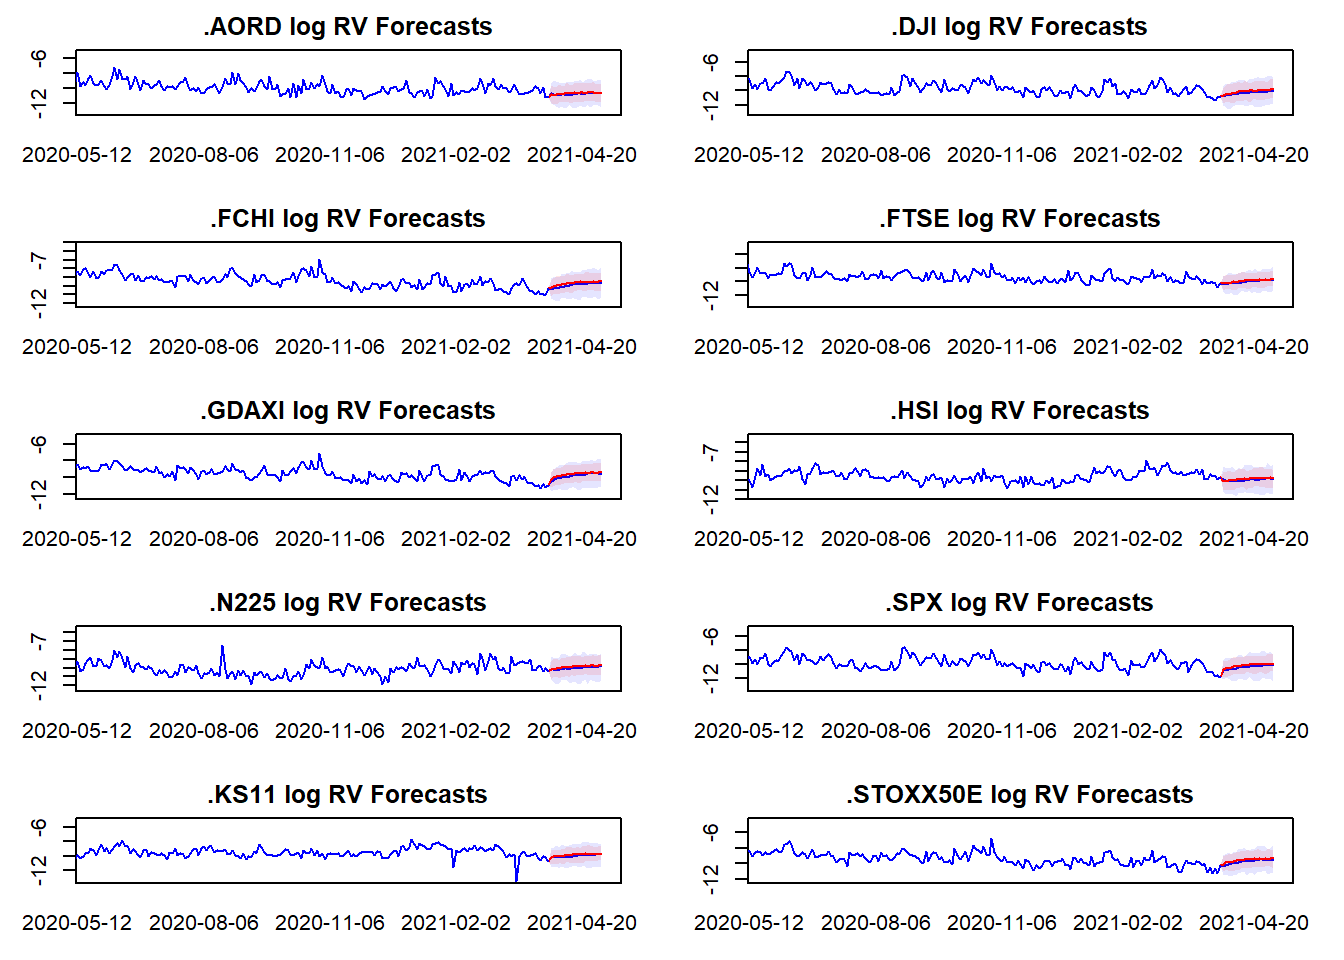
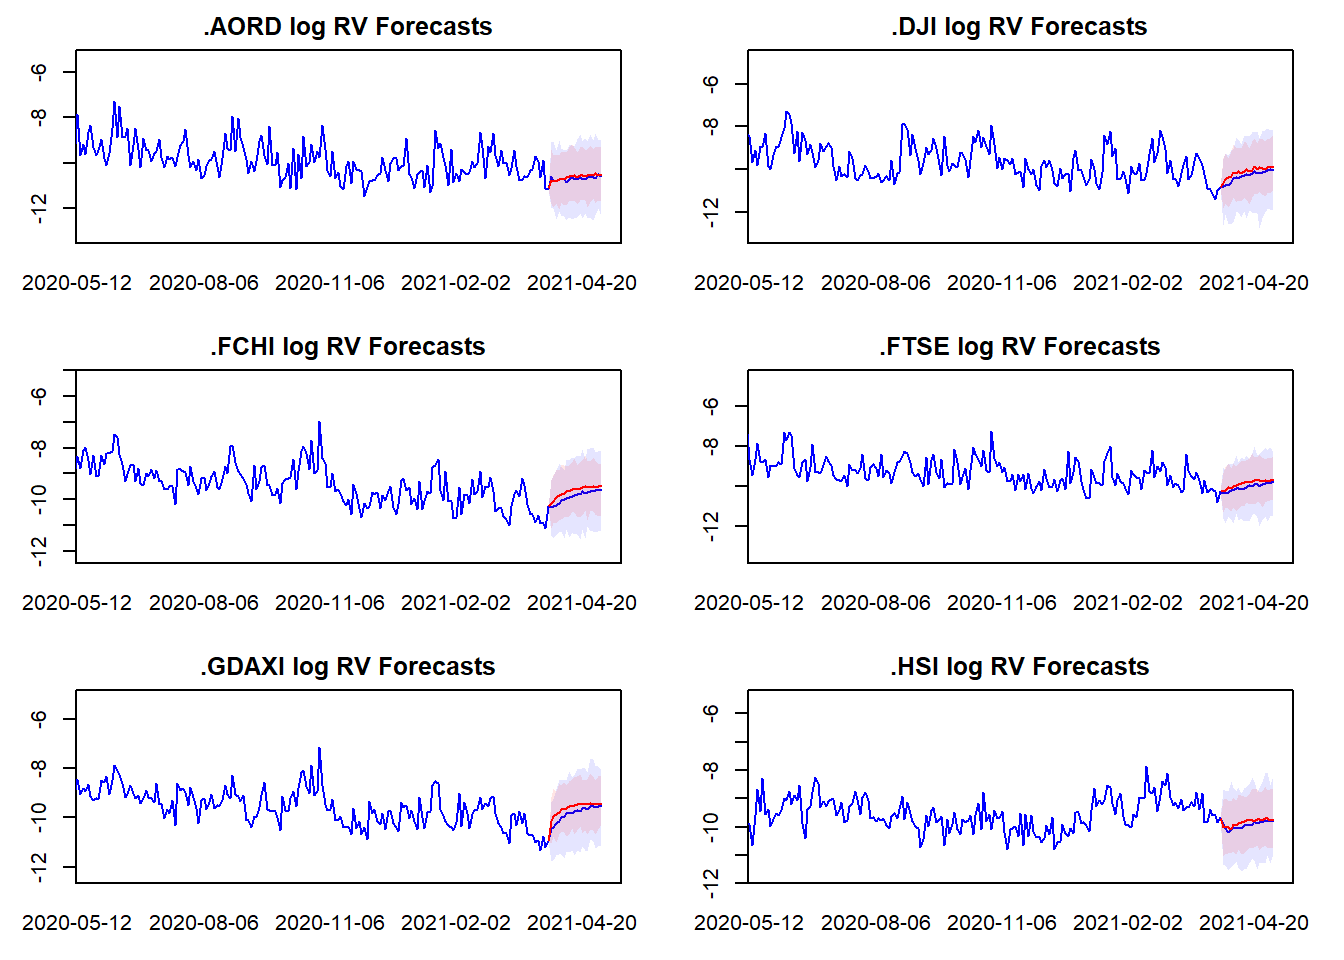
docs - resizing forecast charts, rounding outputs

diff --git a/docs/index.html b/docs/index.html
@@ -565,16 +565,16 @@ p(\Sigma|Y,X) &amp;= IW_N(\bar{S},\bar{\nu}) \\
 <span id="cb2-27"><a href="#cb2-27" aria-hidden="true" tabindex="-1"></a></span>
 <span id="cb2-28"><a href="#cb2-28" aria-hidden="true" tabindex="-1"></a><span class="fu">round</span>(<span class="fu">apply</span>(res[[<span class="dv">1</span>]],<span class="dv">1</span><span class="sc">:</span><span class="dv">2</span>,mean),<span class="dv">2</span>) <span class="co">#A posterior mean</span></span></code><button title="Copy to Clipboard" class="code-copy-button"><i class="bi"></i></button></pre></div>
 <div class="cell-output cell-output-stdout">
-<pre><code>      [,1]  [,2]
-[1,]  0.03 -0.11
-[2,]  1.00  0.01
-[3,] -0.01  0.99</code></pre>
+<pre><code>     [,1] [,2]
+[1,] 0.17 0.12
+[2,] 0.99 0.01
+[3,] 0.00 0.99</code></pre>
 </div>
 <div class="sourceCode cell-code" id="cb4"><pre class="sourceCode r code-with-copy"><code class="sourceCode r"><span id="cb4-1"><a href="#cb4-1" aria-hidden="true" tabindex="-1"></a><span class="fu">round</span>(<span class="fu">apply</span>(res[[<span class="dv">2</span>]],<span class="dv">1</span><span class="sc">:</span><span class="dv">2</span>,mean),<span class="dv">2</span>) <span class="co">#Sigma posterior mean</span></span></code><button title="Copy to Clipboard" class="code-copy-button"><i class="bi"></i></button></pre></div>
 <div class="cell-output cell-output-stdout">
-<pre><code>      [,1]  [,2]
-[1,]  1.04 -0.02
-[2,] -0.02  0.96</code></pre>
+<pre><code>     [,1] [,2]
+[1,] 0.98 0.03
+[2,] 0.03 1.06</code></pre>
 </div>
 </div>
 <p>As shown above the estimated parameter means closely match the expected values for the data generating process.</p>
@@ -692,20 +692,20 @@ p(\lambda|Y,X,A,\Sigma) &amp;\propto L(A,\Sigma,\lambda|Y,X)p(\lambda) \\
 <span id="cb6-36"><a href="#cb6-36" aria-hidden="true" tabindex="-1"></a></span>
 <span id="cb6-37"><a href="#cb6-37" aria-hidden="true" tabindex="-1"></a><span class="fu">round</span>(<span class="fu">apply</span>(A.posterior.draws, <span class="dv">1</span><span class="sc">:</span><span class="dv">2</span>, mean),<span class="dv">2</span>)</span></code><button title="Copy to Clipboard" class="code-copy-button"><i class="bi"></i></button></pre></div>
 <div class="cell-output cell-output-stdout">
-<pre><code>      [,1]  [,2]
-[1,]  0.03 -0.11
-[2,]  1.00  0.01
-[3,] -0.01  0.99</code></pre>
+<pre><code>     [,1] [,2]
+[1,] 0.17 0.11
+[2,] 0.99 0.01
+[3,] 0.00 0.99</code></pre>
 </div>
 <div class="sourceCode cell-code" id="cb8"><pre class="sourceCode r code-with-copy"><code class="sourceCode r"><span id="cb8-1"><a href="#cb8-1" aria-hidden="true" tabindex="-1"></a><span class="fu">round</span>(<span class="fu">apply</span>(Sigma.posterior.draws, <span class="dv">1</span><span class="sc">:</span><span class="dv">2</span>, mean),<span class="dv">2</span>)</span></code><button title="Copy to Clipboard" class="code-copy-button"><i class="bi"></i></button></pre></div>
 <div class="cell-output cell-output-stdout">
-<pre><code>      [,1]  [,2]
-[1,]  1.04 -0.02
-[2,] -0.02  0.96</code></pre>
+<pre><code>     [,1] [,2]
+[1,] 0.97 0.03
+[2,] 0.03 1.05</code></pre>
 </div>
 <div class="sourceCode cell-code" id="cb10"><pre class="sourceCode r code-with-copy"><code class="sourceCode r"><span id="cb10-1"><a href="#cb10-1" aria-hidden="true" tabindex="-1"></a><span class="fu">round</span>(<span class="fu">mean</span>(lambda.posterior.draws),<span class="dv">2</span>)</span></code><button title="Copy to Clipboard" class="code-copy-button"><i class="bi"></i></button></pre></div>
 <div class="cell-output cell-output-stdout">
-<pre><code>[1] 1.01</code></pre>
+<pre><code>[1] 1.02</code></pre>
 </div>
 </div>
 <p>As can be seen, when the extended model estimation routine is applied to the simulated bivariate random walk data, the estimates of <span class="math inline">\(A\)</span> and <span class="math inline">\(\Sigma\)</span> again match the true parameter values closely.</p>
@@ -735,74 +735,25 @@ p(\lambda|Y,X,A,\Sigma) &amp;\propto L(A,\Sigma,\lambda|Y,X)p(\lambda) \\
 <span id="cb12-12"><a href="#cb12-12" aria-hidden="true" tabindex="-1"></a></span>
 <span id="cb12-13"><a href="#cb12-13" aria-hidden="true" tabindex="-1"></a>res <span class="ot">=</span> <span class="fu">get_posteriors</span>(<span class="dv">300</span>, Y_ext, X_ext, pris)</span>
 <span id="cb12-14"><a href="#cb12-14" aria-hidden="true" tabindex="-1"></a></span>
-<span id="cb12-15"><a href="#cb12-15" aria-hidden="true" tabindex="-1"></a><span class="fu">round</span>(<span class="fu">apply</span>(res[[<span class="dv">1</span>]],<span class="dv">1</span><span class="sc">:</span><span class="dv">2</span>,mean),<span class="dv">2</span>) <span class="co">#A posterior mean</span></span></code><button title="Copy to Clipboard" class="code-copy-button"><i class="bi"></i></button></pre></div>
+<span id="cb12-15"><a href="#cb12-15" aria-hidden="true" tabindex="-1"></a><span class="fu">head</span>(<span class="fu">round</span>(<span class="fu">apply</span>(res[[<span class="dv">1</span>]],<span class="dv">1</span><span class="sc">:</span><span class="dv">2</span>,mean),<span class="dv">2</span>)) <span class="co">#A posterior mean</span></span></code><button title="Copy to Clipboard" class="code-copy-button"><i class="bi"></i></button></pre></div>
 <div class="cell-output cell-output-stdout">
-<pre><code>       [,1]  [,2]  [,3]  [,4]  [,5]  [,6]  [,7] [,8]  [,9] [,10]
- [1,] -3.18 -0.09 -0.94 -0.76 -0.66 -2.52 -1.99 0.25 -1.62 -1.14
- [2,]  0.21  0.04  0.04  0.08 -0.02  0.02  0.00 0.04 -0.04  0.02
- [3,]  0.08  0.14  0.05  0.08  0.06  0.04  0.05 0.13  0.05  0.07
- [4,]  0.05  0.05  0.12  0.09  0.10  0.01  0.03 0.06  0.01  0.12
- [5,]  0.10  0.04  0.06  0.10  0.03  0.04  0.02 0.04  0.02  0.04
- [6,] -0.02  0.06  0.10  0.05  0.17  0.02  0.04 0.05  0.05  0.12
- [7,]  0.06  0.05  0.01  0.04  0.02  0.20  0.04 0.05  0.08  0.00
- [8,]  0.00  0.03  0.01  0.01  0.03  0.03  0.26 0.03  0.04  0.02
- [9,]  0.08  0.15  0.07  0.09  0.06  0.05  0.06 0.17  0.06  0.07
-[10,] -0.04  0.07  0.01  0.02  0.05  0.08  0.05 0.07  0.33  0.00
-[11,]  0.03  0.04  0.09  0.06  0.10 -0.01  0.03 0.04 -0.01  0.12
-[12,]  0.07  0.01  0.01  0.03  0.00  0.01  0.00 0.01 -0.01  0.01
-[13,]  0.00  0.04  0.01  0.01  0.01  0.01  0.01 0.04  0.01  0.01
-[14,]  0.01  0.01  0.03  0.02  0.03  0.00  0.00 0.02  0.00  0.03
-[15,]  0.02  0.01  0.02  0.03  0.01  0.01  0.00 0.02  0.00  0.02
-[16,] -0.01  0.02  0.03  0.01  0.05  0.00  0.01 0.01  0.01  0.03
-[17,]  0.01  0.01  0.01  0.01  0.01  0.06  0.01 0.01  0.03  0.00
-[18,]  0.00  0.01  0.01  0.00  0.01  0.01  0.07 0.01  0.01  0.01
-[19,]  0.00  0.04  0.01  0.02  0.01  0.01  0.01 0.04  0.01  0.01
-[20,] -0.02  0.01  0.00  0.00  0.01  0.02  0.01 0.02  0.09  0.00
-[21,]  0.00  0.01  0.03  0.02  0.03  0.00  0.00 0.01  0.00  0.04
-[22,]  0.03  0.00  0.01  0.01  0.00  0.01  0.00 0.00 -0.01  0.00
-[23,]  0.00  0.02  0.00  0.01  0.01  0.01  0.00 0.02  0.01  0.00
-[24,]  0.00  0.01  0.02  0.01  0.01  0.00  0.00 0.01  0.00  0.01
-[25,]  0.01  0.01  0.01  0.02  0.01  0.00  0.00 0.01  0.00  0.01
-[26,]  0.00  0.01  0.01  0.01  0.02  0.00  0.00 0.01  0.01  0.02
-[27,]  0.00  0.00  0.00  0.00  0.00  0.03  0.00 0.01  0.01  0.00
-[28,]  0.00  0.00  0.00  0.00  0.00  0.01  0.03 0.00  0.01  0.00
-[29,]  0.00  0.02  0.01  0.01  0.00  0.01  0.00 0.02  0.01  0.01
-[30,] -0.01  0.01  0.00  0.00  0.01  0.01  0.00 0.01  0.04  0.00
-[31,]  0.00  0.01  0.01  0.01  0.02  0.00  0.00 0.01  0.00  0.02
-[32,]  0.02  0.00  0.00  0.01  0.00  0.00  0.00 0.00  0.00  0.00
-[33,]  0.00  0.01  0.00  0.00  0.00  0.00  0.00 0.01  0.00  0.00
-[34,]  0.00  0.00  0.01  0.01  0.01  0.00  0.00 0.01  0.00  0.01
-[35,]  0.01  0.00  0.01  0.01  0.00  0.00  0.00 0.00  0.00  0.01
-[36,]  0.00  0.00  0.01  0.00  0.01  0.00  0.00 0.00  0.00  0.01
-[37,]  0.00  0.00  0.00  0.00  0.00  0.01  0.00 0.00  0.01  0.00
-[38,]  0.00  0.00  0.00  0.00  0.00  0.00  0.02 0.00  0.00  0.00
-[39,]  0.00  0.01  0.00  0.00  0.00  0.00  0.00 0.01  0.00  0.00
-[40,]  0.00  0.00  0.00  0.00  0.00  0.01  0.00 0.01  0.02  0.00
-[41,]  0.00  0.00  0.01  0.01  0.01  0.00  0.00 0.00  0.00  0.01
-[42,]  0.01  0.00  0.00  0.01  0.00  0.00  0.00 0.00  0.00  0.00
-[43,]  0.00  0.01  0.00  0.00  0.00  0.00  0.00 0.01  0.00  0.00
-[44,]  0.00  0.00  0.01  0.00  0.01  0.00  0.00 0.00  0.00  0.01
-[45,]  0.00  0.00  0.00  0.01  0.00  0.00  0.00 0.00  0.00  0.00
-[46,]  0.00  0.00  0.01  0.00  0.01  0.00  0.00 0.00  0.00  0.01
-[47,]  0.00  0.00  0.00  0.00  0.00  0.01  0.00 0.00  0.00  0.00
-[48,]  0.00  0.00  0.00  0.00  0.00  0.00  0.01 0.00  0.00  0.00
-[49,]  0.00  0.01  0.00  0.00  0.00  0.00  0.00 0.01  0.00  0.00
-[50,]  0.00  0.00  0.00  0.00  0.00  0.00  0.00 0.00  0.01  0.00
-[51,]  0.00  0.00  0.01  0.00  0.01  0.00  0.00 0.00  0.00  0.01</code></pre>
+<pre><code>      [,1]  [,2]  [,3]  [,4]  [,5]  [,6]  [,7] [,8]  [,9] [,10]
+[1,] -3.18 -0.11 -0.94 -0.77 -0.67 -2.54 -2.01 0.24 -1.64 -1.14
+[2,]  0.21  0.04  0.04  0.08 -0.02  0.02  0.00 0.04 -0.04  0.02
+[3,]  0.08  0.14  0.05  0.07  0.06  0.04  0.05 0.13  0.05  0.07
+[4,]  0.05  0.05  0.12  0.09  0.10  0.01  0.02 0.06  0.01  0.11
+[5,]  0.10  0.04  0.06  0.11  0.03  0.04  0.02 0.04  0.01  0.04
+[6,] -0.02  0.06  0.10  0.05  0.17  0.02  0.04 0.05  0.05  0.12</code></pre>
 </div>
-<div class="sourceCode cell-code" id="cb14"><pre class="sourceCode r code-with-copy"><code class="sourceCode r"><span id="cb14-1"><a href="#cb14-1" aria-hidden="true" tabindex="-1"></a><span class="fu">round</span>(<span class="fu">apply</span>(res[[<span class="dv">2</span>]],<span class="dv">1</span><span class="sc">:</span><span class="dv">2</span>,mean),<span class="dv">2</span>) <span class="co">#Sigma posterior mean</span></span></code><button title="Copy to Clipboard" class="code-copy-button"><i class="bi"></i></button></pre></div>
+<div class="sourceCode cell-code" id="cb14"><pre class="sourceCode r code-with-copy"><code class="sourceCode r"><span id="cb14-1"><a href="#cb14-1" aria-hidden="true" tabindex="-1"></a><span class="fu">head</span>(<span class="fu">round</span>(<span class="fu">apply</span>(res[[<span class="dv">2</span>]],<span class="dv">1</span><span class="sc">:</span><span class="dv">2</span>,mean),<span class="dv">2</span>)) <span class="co">#Sigma posterior mean</span></span></code><button title="Copy to Clipboard" class="code-copy-button"><i class="bi"></i></button></pre></div>
 <div class="cell-output cell-output-stdout">
-<pre><code>       [,1] [,2] [,3] [,4] [,5] [,6] [,7] [,8]  [,9] [,10]
- [1,]  0.83 0.07 0.08 0.15 0.04 0.06 0.07 0.07 -0.01  0.09
- [2,]  0.07 0.83 0.17 0.19 0.18 0.08 0.08 0.42  0.09  0.19
- [3,]  0.08 0.17 0.51 0.19 0.24 0.05 0.06 0.18  0.05  0.26
- [4,]  0.15 0.19 0.19 0.64 0.18 0.07 0.07 0.19  0.05  0.24
- [5,]  0.04 0.18 0.24 0.18 0.58 0.05 0.07 0.18  0.07  0.28
- [6,]  0.06 0.08 0.05 0.07 0.05 0.56 0.09 0.08  0.12  0.04
- [7,]  0.07 0.08 0.06 0.07 0.07 0.09 0.68 0.09  0.10  0.08
- [8,]  0.07 0.42 0.18 0.19 0.18 0.08 0.09 0.80  0.09  0.19
- [9,] -0.01 0.09 0.05 0.05 0.07 0.12 0.10 0.09  0.61  0.04
-[10,]  0.09 0.19 0.26 0.24 0.28 0.04 0.08 0.19  0.04  0.60</code></pre>
+<pre><code>     [,1] [,2] [,3] [,4] [,5] [,6] [,7] [,8]  [,9] [,10]
+[1,] 0.83 0.07 0.08 0.15 0.04 0.06 0.07 0.08 -0.01  0.09
+[2,] 0.07 0.82 0.17 0.19 0.18 0.08 0.08 0.42  0.09  0.19
+[3,] 0.08 0.17 0.51 0.19 0.24 0.05 0.06 0.18  0.05  0.26
+[4,] 0.15 0.19 0.19 0.65 0.18 0.07 0.07 0.19  0.05  0.24
+[5,] 0.04 0.18 0.24 0.18 0.57 0.05 0.07 0.18  0.07  0.27
+[6,] 0.06 0.08 0.05 0.07 0.05 0.55 0.09 0.08  0.11  0.04</code></pre>
 </div>
 </div>
 </section>
@@ -846,78 +797,29 @@ p(\lambda|Y,X,A,\Sigma) &amp;\propto L(A,\Sigma,\lambda|Y,X)p(\lambda) \\
 <span id="cb16-35"><a href="#cb16-35" aria-hidden="true" tabindex="-1"></a>  lambda.posterior.draws[s] <span class="ot">=</span> lambda.draw</span>
 <span id="cb16-36"><a href="#cb16-36" aria-hidden="true" tabindex="-1"></a>}</span>
 <span id="cb16-37"><a href="#cb16-37" aria-hidden="true" tabindex="-1"></a>                            </span>
-<span id="cb16-38"><a href="#cb16-38" aria-hidden="true" tabindex="-1"></a><span class="fu">round</span>(<span class="fu">apply</span>(A.posterior.draws, <span class="dv">1</span><span class="sc">:</span><span class="dv">2</span>, mean),<span class="dv">2</span>)</span></code><button title="Copy to Clipboard" class="code-copy-button"><i class="bi"></i></button></pre></div>
+<span id="cb16-38"><a href="#cb16-38" aria-hidden="true" tabindex="-1"></a><span class="fu">head</span>(<span class="fu">round</span>(<span class="fu">apply</span>(A.posterior.draws, <span class="dv">1</span><span class="sc">:</span><span class="dv">2</span>, mean),<span class="dv">2</span>))</span></code><button title="Copy to Clipboard" class="code-copy-button"><i class="bi"></i></button></pre></div>
 <div class="cell-output cell-output-stdout">
-<pre><code>       [,1]  [,2]  [,3]  [,4]  [,5]  [,6]  [,7]  [,8]  [,9] [,10]
- [1,] -4.59 -1.30 -1.99 -2.00 -1.64 -3.94 -3.33 -0.97 -2.97 -2.03
- [2,]  0.12  0.04  0.04  0.06  0.01  0.02  0.01  0.04 -0.02  0.03
- [3,]  0.06  0.10  0.06  0.07  0.06  0.04  0.05  0.10  0.05  0.06
- [4,]  0.04  0.06  0.08  0.07  0.08  0.02  0.03  0.06  0.02  0.08
- [5,]  0.07  0.05  0.06  0.07  0.05  0.03  0.03  0.06  0.02  0.05
- [6,]  0.01  0.06  0.08  0.05  0.10  0.03  0.04  0.06  0.04  0.08
- [7,]  0.04  0.04  0.02  0.03  0.03  0.10  0.04  0.05  0.06  0.02
- [8,]  0.01  0.04  0.03  0.03  0.04  0.03  0.13  0.04  0.05  0.03
- [9,]  0.06  0.10  0.06  0.07  0.06  0.05  0.05  0.11  0.06  0.07
-[10,] -0.01  0.06  0.02  0.03  0.04  0.06  0.05  0.06  0.17  0.02
-[11,]  0.04  0.05  0.07  0.06  0.08  0.01  0.03  0.05  0.01  0.08
-[12,]  0.03  0.01  0.01  0.02  0.00  0.01  0.00  0.01  0.00  0.01
-[13,]  0.01  0.03  0.01  0.02  0.01  0.01  0.01  0.02  0.01  0.01
-[14,]  0.01  0.01  0.02  0.02  0.02  0.01  0.01  0.02  0.00  0.02
-[15,]  0.02  0.01  0.02  0.02  0.01  0.01  0.01  0.02  0.01  0.01
-[16,]  0.00  0.01  0.02  0.01  0.03  0.01  0.01  0.01  0.01  0.02
-[17,]  0.01  0.01  0.01  0.01  0.01  0.02  0.01  0.01  0.02  0.00
-[18,]  0.00  0.01  0.01  0.01  0.01  0.01  0.03  0.01  0.01  0.01
-[19,]  0.01  0.02  0.01  0.02  0.01  0.01  0.01  0.03  0.01  0.01
-[20,]  0.00  0.01  0.00  0.01  0.01  0.02  0.01  0.02  0.04  0.00
-[21,]  0.01  0.01  0.02  0.01  0.02  0.00  0.01  0.01  0.00  0.02
-[22,]  0.01  0.00  0.01  0.01  0.00  0.00  0.00  0.00  0.00  0.00
-[23,]  0.00  0.01  0.01  0.01  0.01  0.00  0.00  0.01  0.01  0.01
-[24,]  0.00  0.01  0.01  0.01  0.01  0.00  0.00  0.01  0.00  0.01
-[25,]  0.01  0.01  0.01  0.01  0.01  0.00  0.00  0.01  0.00  0.01
-[26,]  0.00  0.01  0.01  0.01  0.01  0.00  0.00  0.01  0.00  0.01
-[27,]  0.00  0.00  0.00  0.00  0.00  0.01  0.00  0.00  0.01  0.00
-[28,]  0.00  0.00  0.00  0.00  0.00  0.00  0.01  0.00  0.00  0.00
-[29,]  0.00  0.01  0.01  0.01  0.01  0.01  0.00  0.01  0.01  0.01
-[30,]  0.00  0.01  0.00  0.00  0.01  0.01  0.01  0.01  0.02  0.00
-[31,]  0.00  0.01  0.01  0.01  0.01  0.00  0.00  0.01  0.00  0.01
-[32,]  0.01  0.00  0.00  0.00  0.00  0.00  0.00  0.00  0.00  0.00
-[33,]  0.00  0.01  0.00  0.00  0.00  0.00  0.00  0.01  0.00  0.00
-[34,]  0.00  0.00  0.00  0.00  0.00  0.00  0.00  0.00  0.00  0.00
-[35,]  0.00  0.00  0.00  0.01  0.00  0.00  0.00  0.00  0.00  0.00
-[36,]  0.00  0.00  0.00  0.00  0.01  0.00  0.00  0.00  0.00  0.00
-[37,]  0.00  0.00  0.00  0.00  0.00  0.01  0.00  0.00  0.00  0.00
-[38,]  0.00  0.00  0.00  0.00  0.00  0.00  0.01  0.00  0.00  0.00
-[39,]  0.00  0.01  0.00  0.00  0.00  0.00  0.00  0.01  0.00  0.00
-[40,]  0.00  0.00  0.00  0.00  0.00  0.00  0.00  0.00  0.01  0.00
-[41,]  0.00  0.00  0.00  0.00  0.00  0.00  0.00  0.00  0.00  0.01
-[42,]  0.00  0.00  0.00  0.00  0.00  0.00  0.00  0.00  0.00  0.00
-[43,]  0.00  0.00  0.00  0.00  0.00  0.00  0.00  0.00  0.00  0.00
-[44,]  0.00  0.00  0.00  0.00  0.00  0.00  0.00  0.00  0.00  0.00
-[45,]  0.00  0.00  0.00  0.00  0.00  0.00  0.00  0.00  0.00  0.00
-[46,]  0.00  0.00  0.00  0.00  0.00  0.00  0.00  0.00  0.00  0.00
-[47,]  0.00  0.00  0.00  0.00  0.00  0.00  0.00  0.00  0.00  0.00
-[48,]  0.00  0.00  0.00  0.00  0.00  0.00  0.00  0.00  0.00  0.00
-[49,]  0.00  0.00  0.00  0.00  0.00  0.00  0.00  0.00  0.00  0.00
-[50,]  0.00  0.00  0.00  0.00  0.00  0.00  0.00  0.00  0.01  0.00
-[51,]  0.00  0.00  0.00  0.00  0.00  0.00  0.00  0.00  0.00  0.00</code></pre>
+<pre><code>      [,1]  [,2]  [,3]  [,4]  [,5]  [,6]  [,7]  [,8]  [,9] [,10]
+[1,] -4.63 -1.28 -2.01 -2.01 -1.65 -3.97 -3.33 -0.97 -2.98 -2.05
+[2,]  0.12  0.04  0.04  0.06  0.01  0.02  0.01  0.04 -0.02  0.03
+[3,]  0.06  0.10  0.06  0.07  0.06  0.04  0.05  0.10  0.05  0.06
+[4,]  0.04  0.06  0.08  0.07  0.08  0.02  0.03  0.06  0.02  0.08
+[5,]  0.07  0.05  0.06  0.07  0.05  0.03  0.03  0.06  0.02  0.05
+[6,]  0.01  0.06  0.08  0.05  0.10  0.02  0.04  0.06  0.04  0.08</code></pre>
 </div>
-<div class="sourceCode cell-code" id="cb18"><pre class="sourceCode r code-with-copy"><code class="sourceCode r"><span id="cb18-1"><a href="#cb18-1" aria-hidden="true" tabindex="-1"></a><span class="fu">round</span>(<span class="fu">apply</span>(Sigma.posterior.draws, <span class="dv">1</span><span class="sc">:</span><span class="dv">2</span>, mean),<span class="dv">2</span>)</span></code><button title="Copy to Clipboard" class="code-copy-button"><i class="bi"></i></button></pre></div>
+<div class="sourceCode cell-code" id="cb18"><pre class="sourceCode r code-with-copy"><code class="sourceCode r"><span id="cb18-1"><a href="#cb18-1" aria-hidden="true" tabindex="-1"></a><span class="fu">head</span>(<span class="fu">round</span>(<span class="fu">apply</span>(Sigma.posterior.draws, <span class="dv">1</span><span class="sc">:</span><span class="dv">2</span>, mean),<span class="dv">2</span>))</span></code><button title="Copy to Clipboard" class="code-copy-button"><i class="bi"></i></button></pre></div>
 <div class="cell-output cell-output-stdout">
-<pre><code>      [,1] [,2] [,3] [,4] [,5] [,6] [,7] [,8] [,9] [,10]
- [1,] 0.50 0.03 0.04 0.06 0.02 0.03 0.03 0.04 0.00  0.04
- [2,] 0.03 0.52 0.07 0.07 0.07 0.04 0.04 0.14 0.04  0.07
- [3,] 0.04 0.07 0.32 0.07 0.09 0.02 0.03 0.07 0.02  0.09
- [4,] 0.06 0.07 0.07 0.40 0.07 0.03 0.03 0.07 0.02  0.08
- [5,] 0.02 0.07 0.09 0.07 0.36 0.03 0.04 0.07 0.04  0.10
- [6,] 0.03 0.04 0.02 0.03 0.03 0.33 0.04 0.04 0.05  0.02
- [7,] 0.03 0.04 0.03 0.03 0.04 0.04 0.41 0.04 0.04  0.03
- [8,] 0.04 0.14 0.07 0.07 0.07 0.04 0.04 0.50 0.05  0.07
- [9,] 0.00 0.04 0.02 0.02 0.04 0.05 0.04 0.05 0.36  0.02
-[10,] 0.04 0.07 0.09 0.08 0.10 0.02 0.03 0.07 0.02  0.38</code></pre>
+<pre><code>     [,1] [,2] [,3] [,4] [,5] [,6] [,7] [,8] [,9] [,10]
+[1,] 0.49 0.03 0.04 0.06 0.02 0.02 0.03 0.04 0.00  0.04
+[2,] 0.03 0.52 0.07 0.07 0.07 0.04 0.04 0.14 0.05  0.07
+[3,] 0.04 0.07 0.32 0.07 0.09 0.02 0.03 0.07 0.02  0.09
+[4,] 0.06 0.07 0.07 0.40 0.07 0.03 0.03 0.07 0.02  0.08
+[5,] 0.02 0.07 0.09 0.07 0.35 0.03 0.04 0.07 0.04  0.09
+[6,] 0.02 0.04 0.02 0.03 0.03 0.33 0.04 0.04 0.05  0.02</code></pre>
 </div>
 <div class="sourceCode cell-code" id="cb20"><pre class="sourceCode r code-with-copy"><code class="sourceCode r"><span id="cb20-1"><a href="#cb20-1" aria-hidden="true" tabindex="-1"></a><span class="fu">round</span>(<span class="fu">mean</span>(lambda.posterior.draws),<span class="dv">2</span>)</span></code><button title="Copy to Clipboard" class="code-copy-button"><i class="bi"></i></button></pre></div>
 <div class="cell-output cell-output-stdout">
-<pre><code>[1] 3.96</code></pre>
+<pre><code>[1] 3.99</code></pre>
 </div>
 </div>
 <p>We can then compute forecasts for both models by sampling from the predictive densities. For each draw of <span class="math inline">\(A\)</span> and <span class="math inline">\(\Sigma\)</span>, we sample h times from the predictive density in order to compute a forecast horizon of h periods. Each of the h draws are computed as 1 period ahead forecasts. Where the predictive density requires data which has not yet been observed this is replaced by the preceeding forecasts computed within the same iteration.</p>
@@ -1009,19 +911,22 @@ p(\lambda|Y,X,A,\Sigma) &amp;\propto L(A,\Sigma,\lambda|Y,X)p(\lambda) \\
 <span id="cb25-13"><a href="#cb25-13" aria-hidden="true" tabindex="-1"></a>  <span class="fu">axis</span>(<span class="dv">1</span>, <span class="at">at=</span><span class="dv">1</span><span class="sc">:</span>(<span class="fu">length</span>(Y_ext[,ix])<span class="sc">+</span>h), <span class="at">labels=</span>xdates, <span class="at">tick=</span><span class="cn">FALSE</span>, <span class="at">cex.axis=</span><span class="dv">1</span>)</span>
 <span id="cb25-14"><a href="#cb25-14" aria-hidden="true" tabindex="-1"></a>}</span>
 <span id="cb25-15"><a href="#cb25-15" aria-hidden="true" tabindex="-1"></a></span>
-<span id="cb25-16"><a href="#cb25-16" aria-hidden="true" tabindex="-1"></a><span class="fu">par</span>(<span class="at">mfrow=</span><span class="fu">c</span>(<span class="dv">5</span>,<span class="dv">2</span>), <span class="at">mar=</span><span class="fu">c</span>(<span class="dv">3</span>,<span class="dv">3</span>,<span class="dv">2</span>,<span class="dv">2</span>))</span>
+<span id="cb25-16"><a href="#cb25-16" aria-hidden="true" tabindex="-1"></a><span class="fu">par</span>(<span class="at">mfrow=</span><span class="fu">c</span>(<span class="dv">3</span>,<span class="dv">2</span>), <span class="at">mar=</span><span class="fu">c</span>(<span class="dv">3</span>,<span class="dv">3</span>,<span class="dv">2</span>,<span class="dv">2</span>))</span>
 <span id="cb25-17"><a href="#cb25-17" aria-hidden="true" tabindex="-1"></a><span class="fu">plot_pred</span>(<span class="dv">1</span>, preds_base, preds_ext)</span>
 <span id="cb25-18"><a href="#cb25-18" aria-hidden="true" tabindex="-1"></a><span class="fu">plot_pred</span>(<span class="dv">2</span>, preds_base, preds_ext)</span>
 <span id="cb25-19"><a href="#cb25-19" aria-hidden="true" tabindex="-1"></a><span class="fu">plot_pred</span>(<span class="dv">3</span>, preds_base, preds_ext)</span>
 <span id="cb25-20"><a href="#cb25-20" aria-hidden="true" tabindex="-1"></a><span class="fu">plot_pred</span>(<span class="dv">4</span>, preds_base, preds_ext)</span>
 <span id="cb25-21"><a href="#cb25-21" aria-hidden="true" tabindex="-1"></a><span class="fu">plot_pred</span>(<span class="dv">5</span>, preds_base, preds_ext)</span>
-<span id="cb25-22"><a href="#cb25-22" aria-hidden="true" tabindex="-1"></a><span class="fu">plot_pred</span>(<span class="dv">6</span>, preds_base, preds_ext)</span>
-<span id="cb25-23"><a href="#cb25-23" aria-hidden="true" tabindex="-1"></a><span class="fu">plot_pred</span>(<span class="dv">7</span>, preds_base, preds_ext)</span>
-<span id="cb25-24"><a href="#cb25-24" aria-hidden="true" tabindex="-1"></a><span class="fu">plot_pred</span>(<span class="dv">8</span>, preds_base, preds_ext)</span>
-<span id="cb25-25"><a href="#cb25-25" aria-hidden="true" tabindex="-1"></a><span class="fu">plot_pred</span>(<span class="dv">9</span>, preds_base, preds_ext)</span>
-<span id="cb25-26"><a href="#cb25-26" aria-hidden="true" tabindex="-1"></a><span class="fu">plot_pred</span>(<span class="dv">10</span>, preds_base, preds_ext)</span></code><button title="Copy to Clipboard" class="code-copy-button"><i class="bi"></i></button></pre></div>
+<span id="cb25-22"><a href="#cb25-22" aria-hidden="true" tabindex="-1"></a><span class="fu">plot_pred</span>(<span class="dv">6</span>, preds_base, preds_ext)</span></code><button title="Copy to Clipboard" class="code-copy-button"><i class="bi"></i></button></pre></div>
 <div class="cell-output-display">
 <p><img src="index_files/figure-html/unnamed-chunk-11-1.png" class="img-fluid" width="672"></p>
+</div>
+<div class="sourceCode cell-code" id="cb26"><pre class="sourceCode r code-with-copy"><code class="sourceCode r"><span id="cb26-1"><a href="#cb26-1" aria-hidden="true" tabindex="-1"></a><span class="fu">plot_pred</span>(<span class="dv">7</span>, preds_base, preds_ext)</span>
+<span id="cb26-2"><a href="#cb26-2" aria-hidden="true" tabindex="-1"></a><span class="fu">plot_pred</span>(<span class="dv">8</span>, preds_base, preds_ext)</span>
+<span id="cb26-3"><a href="#cb26-3" aria-hidden="true" tabindex="-1"></a><span class="fu">plot_pred</span>(<span class="dv">9</span>, preds_base, preds_ext)</span>
+<span id="cb26-4"><a href="#cb26-4" aria-hidden="true" tabindex="-1"></a><span class="fu">plot_pred</span>(<span class="dv">10</span>, preds_base, preds_ext)</span></code><button title="Copy to Clipboard" class="code-copy-button"><i class="bi"></i></button></pre></div>
+<div class="cell-output-display">
+<p><img src="index_files/figure-html/unnamed-chunk-11-2.png" class="img-fluid" width="672"></p>
 </div>
 </div>
 <p>As can be seen by the point forecasts, both model forecasts appear to converge back to a long term average. The forecasts trend higher over the forecast period for all variables, which might be explained as the model predicting volatility will normalise at a higher long run level after a period of relatively low volatility leading up to the forecast period. Forecasts in the T-distribution model appear to move back to the long run mean more quickly than that of the baseline model, suggesting faster mean reversion.</p>
@@ -1033,6 +938,9 @@ p(\lambda|Y,X,A,\Sigma) &amp;\propto L(A,\Sigma,\lambda|Y,X)p(\lambda) \\
 <div class="cell">
 <div class="cell-output-display">
 <p><img src="index_files/figure-html/unnamed-chunk-12-1.png" class="img-fluid" width="672"></p>
+</div>
+<div class="cell-output-display">
+<p><img src="index_files/figure-html/unnamed-chunk-12-2.png" class="img-fluid" width="672"></p>
 </div>
 </div>
 
